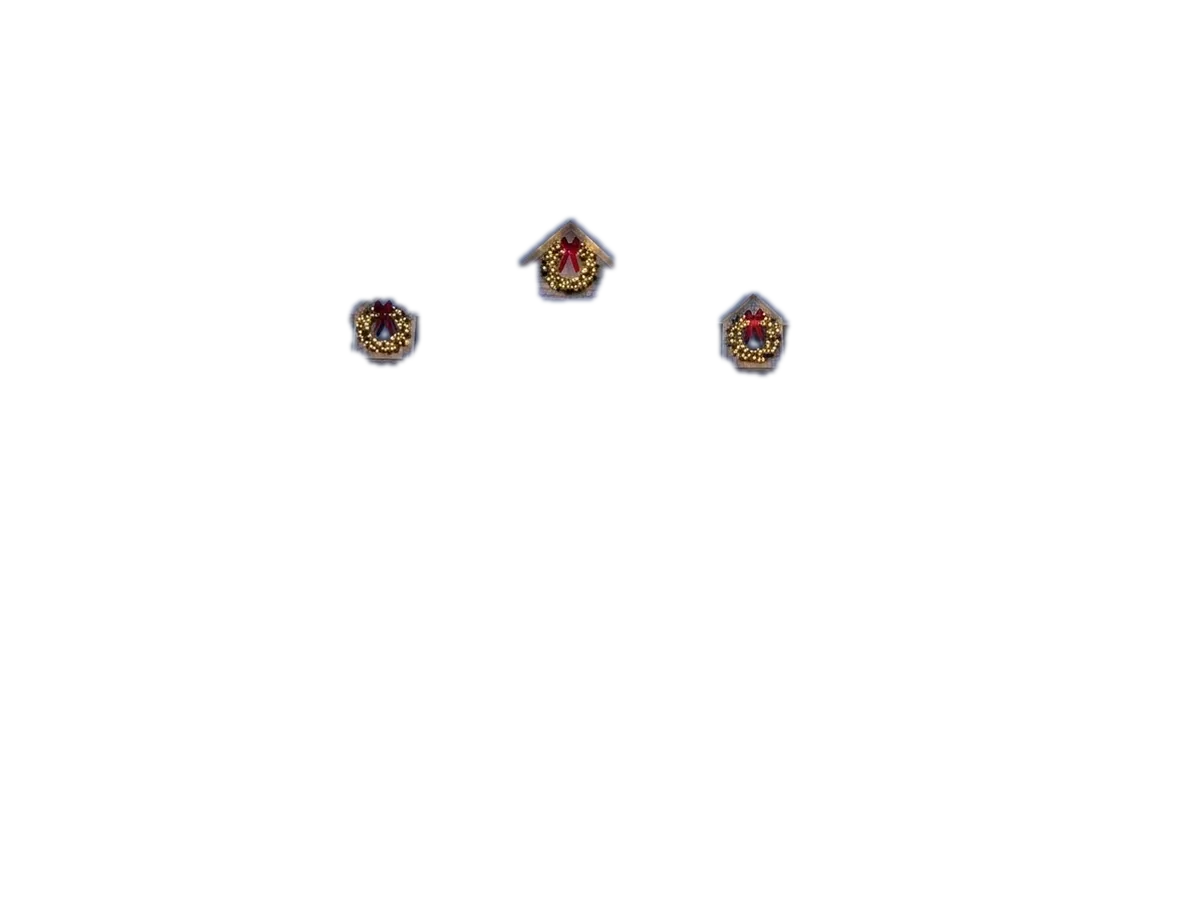
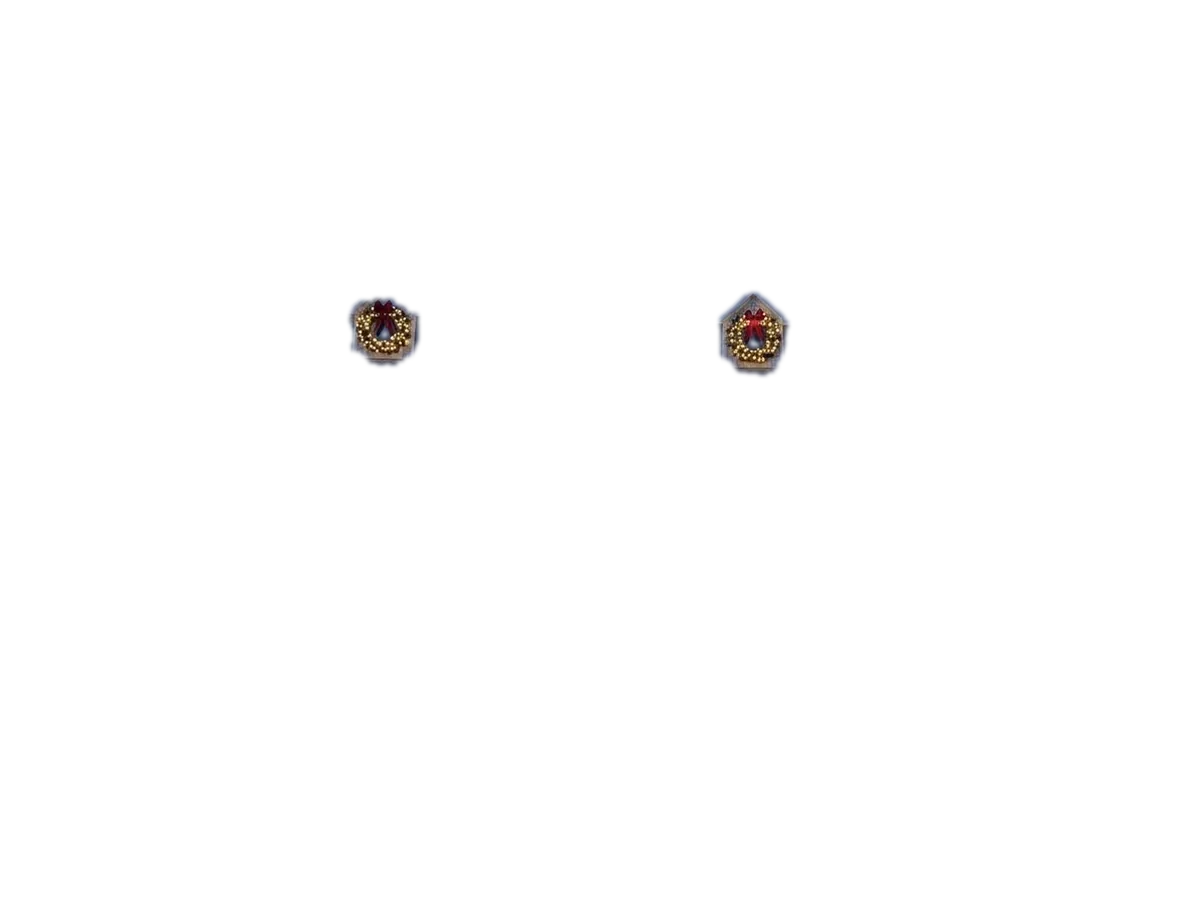
Kim lights quote: small-peaks wreath layer shows only its two wreaths (the center one leaked in)
Claude-Session: https://claude.ai/code/session_01YXcUTCVaxQYCoghA18zKvq

Changed region(s): [[0.4317, 0.2178, 0.5242, 0.3422]]

diff --git a/assets/quotes/kim-voyager-lights-e72f/index.html b/assets/quotes/kim-voyager-lights-e72f/index.html
@@ -130,7 +130,7 @@ function drawGroups(){$("groups").innerHTML=GROUPS.map(function(g,gi){return '<h
   cb.onchange=function(){st.on[id]=cb.checked;var it=ALL.filter(function(x){return x.id===id})[0];if(it&&it.view)st.view=it.view;render()};
   if(sel){sel.onclick=function(e){e.stopPropagation()};sel.onchange=function(){st.size[id]=+sel.value;st.on[id]=true;render()}}})}
 function layerOf(i,v){return i.layers?i.layers[v]:(i.view===v?i.id:null)}
-function layerSrc(i,v){var L=layerOf(i,v);return i.kind==="decor"?L+".webp":L+"-"+st.roof+".jpg?v=4"}
+function layerSrc(i,v){var L=layerOf(i,v);return i.kind==="decor"?L+".webp?v=5":L+"-"+st.roof+".jpg?v=4"}
 function drawPic(){var pic=$("pic"),v=VIEWS[st.view];
  if(pic.getAttribute("data-view")!==st.view){pic.setAttribute("data-view",st.view);
   pic.innerHTML='<img class="bs" alt="" src="'+IMG+v.base+'">'+ALL.filter(function(i){return layerOf(i,st.view)}).map(function(i){return '<img alt="" data-id="'+i.id+'" class="'+(i.kind==="decor"?"dc":"lt")+' off">'}).join("");
